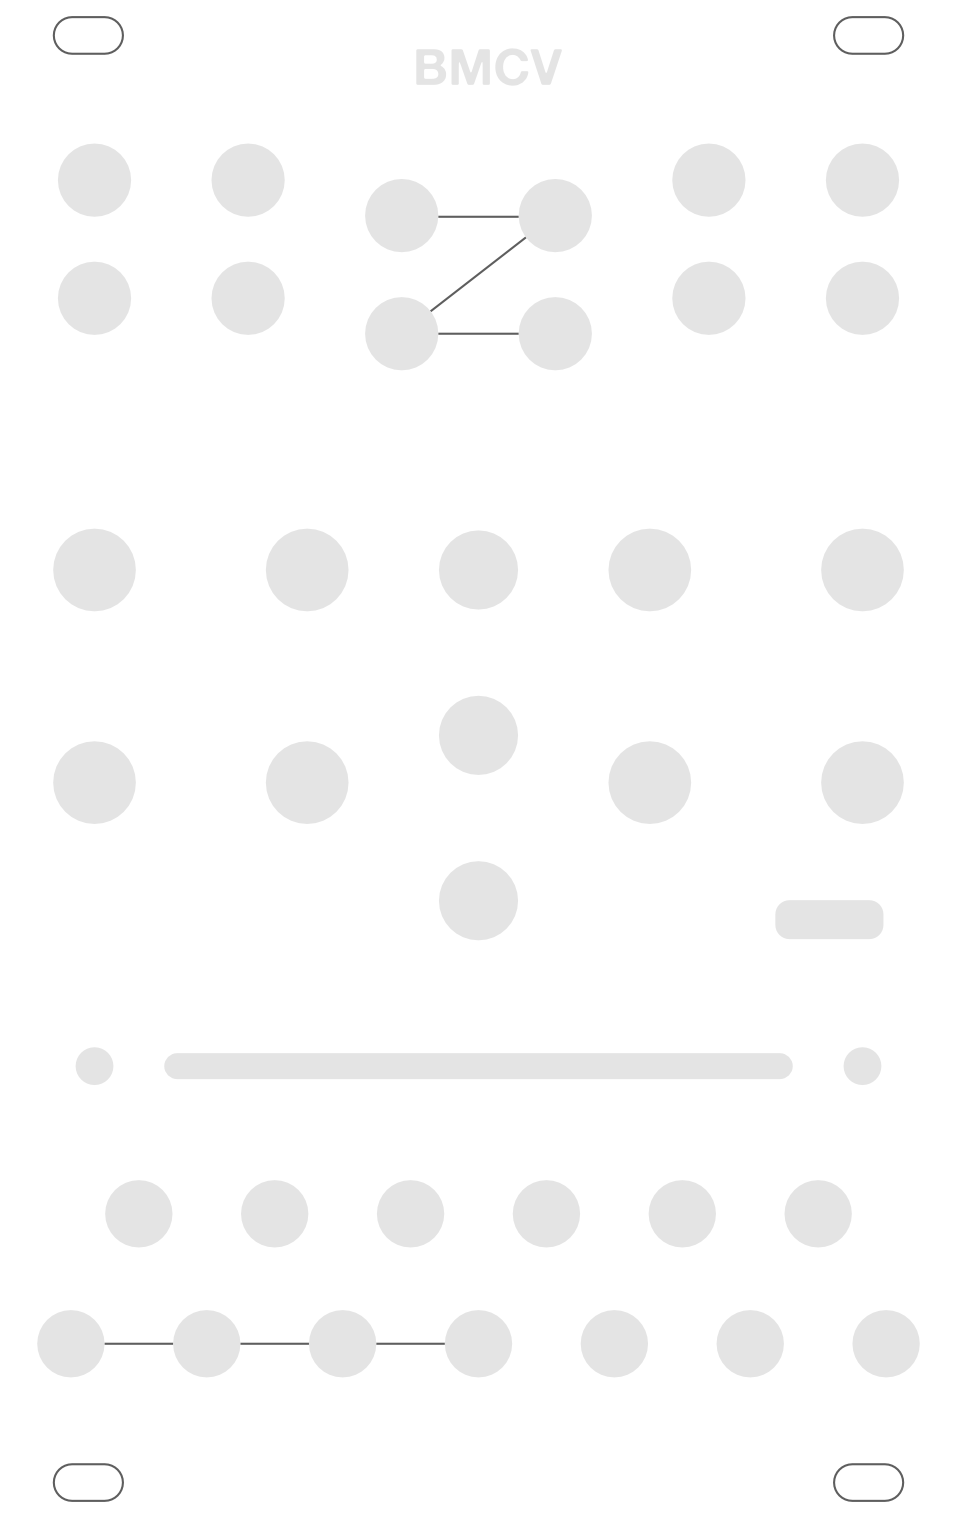
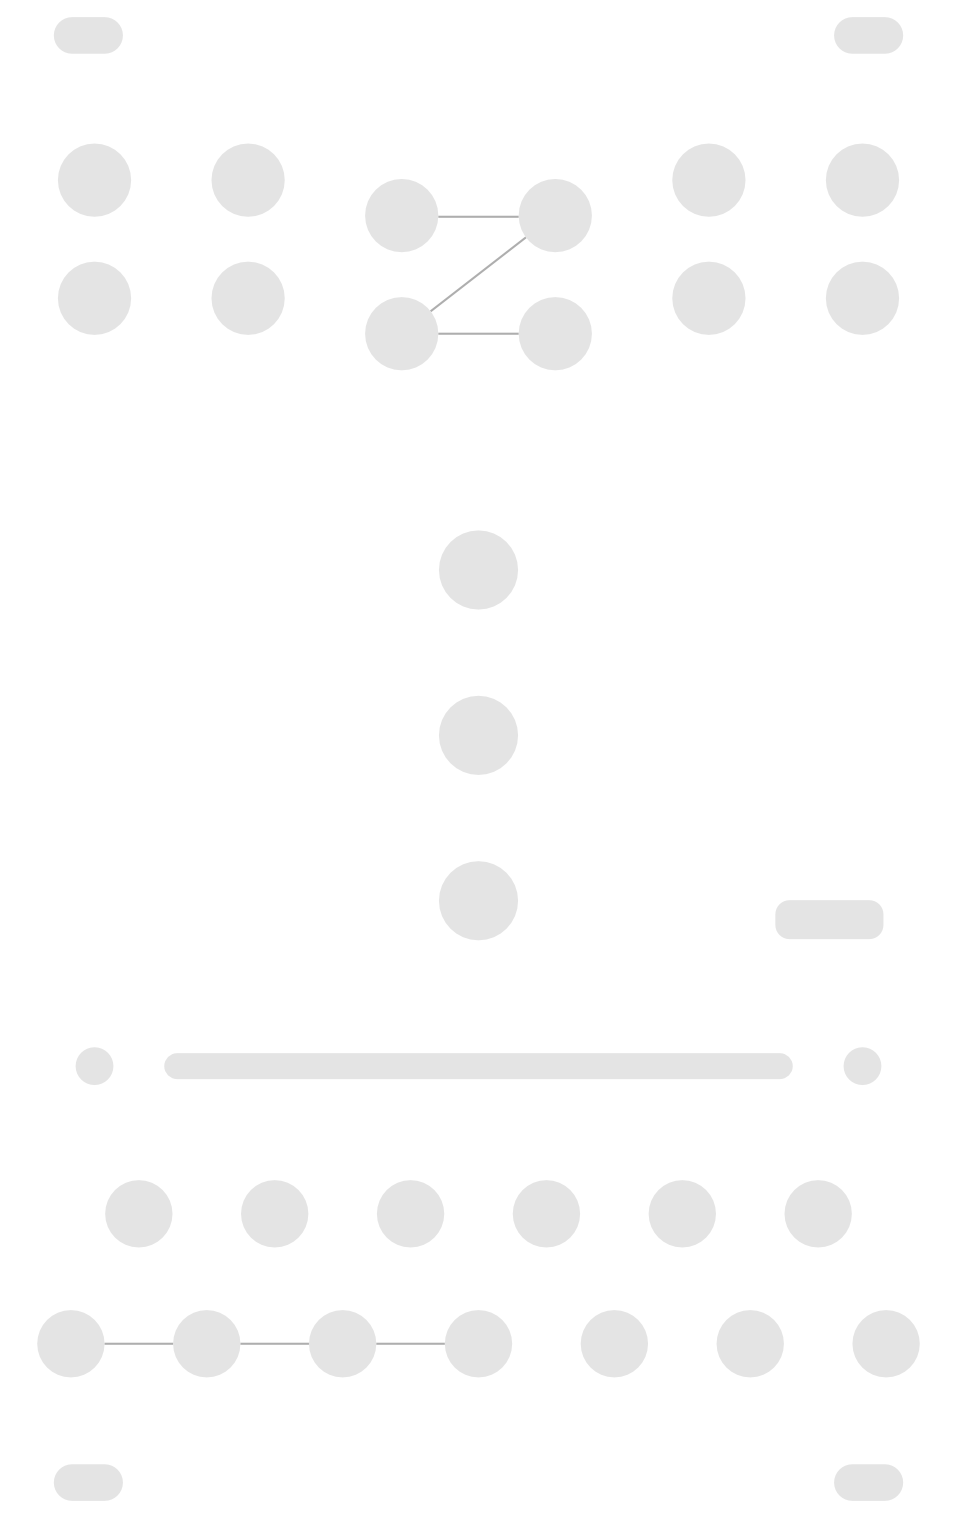
test(usb): ask the browser whether it can reach the module directly
Whether Windows bound WinUSB to the new vendor interface is awkward to establish
from Device Manager and trivial to establish from the thing that cares: if
Chrome offers the device and lets go of interface 1, it worked.

The picker is unfiltered on purpose. A module missing from a list of everything
says the descriptors did not take; a module missing from a filtered list says
almost nothing, since a filter that does not match is indistinguishable from a
device that is not there.

It prints what it found either way - the USB version the device reports, every
interface with its class and endpoints, and which are already claimed - so a
failure says which kind it is. A device that will not open has no WinUSB behind
it; one that opens and refuses interface 1 has something else holding it.

diff --git a/web/midi-bench/bench.js b/web/midi-bench/bench.js
@@ -38,6 +38,70 @@ const kb = n => `${fmt(n / 1024, 1)} kB/s`;
 // host driver and this device gives it nothing to work with.
 const findPorts = access => identify(access, stage => setStatus(stage));
 
+/* ---- can a browser reach the module directly? ---------------------------- */
+
+// The one question that decides whether the WebUSB route is available at all.
+//
+// On Windows a vendor interface is only reachable if the OS bound WinUSB to it,
+// which the module's Microsoft OS 2.0 descriptors ask for. Whether that worked
+// is awkward to establish from Device Manager and trivial to establish here: if
+// Chrome offers the device and lets go of interface 1, it worked. If it does
+// not appear in the picker at all, the descriptors did not take.
+const BMCV_VID = 1155;
+const BMCV_PID = 22315;
+const BMCV_VENDOR_INTERFACE = 1;
+
+async function checkWebUsb() {
+  if (!navigator.usb) {
+    log('This browser has no WebUSB.');
+    return;
+  }
+
+  let device;
+  try {
+    // No filter, so the picker shows everything - a module that is missing from
+    // an unfiltered list says something quite different from one missing from a
+    // filtered one.
+    device = await navigator.usb.requestDevice({ filters: [] });
+  } catch (e) {
+    log(`No device chosen (${e.name}).`);
+    log('If BMCV was not in the list, Windows has not bound WinUSB to its vendor');
+    log('interface, and the descriptors are what need looking at.');
+    return;
+  }
+
+  log(`chosen: ${device.manufacturerName || '?'} ${device.productName || '?'}`);
+  log(`  vendorId 0x${device.vendorId.toString(16)} productId 0x${device.productId.toString(16)}`);
+  log(`  USB ${device.usbVersionMajor}.${device.usbVersionMinor}`);
+
+  const expected = device.vendorId === BMCV_VID && device.productId === BMCV_PID;
+  if (!expected) log('  (that is not the BMCV this page expects)');
+
+  try {
+    await device.open();
+    log('  opened');
+    if (!device.configuration) await device.selectConfiguration(1);
+
+    for (const iface of device.configuration.interfaces) {
+      const alt = iface.alternate;
+      const eps = alt.endpoints.map(e => `${e.direction}${e.endpointNumber} ${e.type} ${e.packetSize}B`).join(', ');
+      log(`  interface ${iface.interfaceNumber}: class ${alt.interfaceClass} [${eps || 'no endpoints'}]`
+        + `${iface.claimed ? ' (claimed)' : ''}`);
+    }
+
+    // The decisive step. A system driver holding the interface refuses here.
+    await device.claimInterface(BMCV_VENDOR_INTERFACE);
+    log(`  claimed interface ${BMCV_VENDOR_INTERFACE} - WinUSB is bound and WebUSB works.`);
+    await device.releaseInterface(BMCV_VENDOR_INTERFACE);
+    await device.close();
+  } catch (e) {
+    log(`  FAILED: ${e.name}: ${e.message}`);
+    log('  A device that opens but will not give up interface 1 is one Windows has');
+    log('  bound something else to. One that will not open at all has no WinUSB.');
+    try { await device.close(); } catch { /* already gone */ }
+  }
+}
+
 /* ---- what is actually on the bus ----------------------------------------- */
 
 // No theory, just bytes.
@@ -253,6 +317,23 @@ async function withModule(fn) {
   log(`firmware ${version}`);
   return fn(input, output);
 }
+
+el('run-webusb')?.addEventListener('click', async () => {
+  const button = el('run-webusb');
+  button.disabled = true;
+  ui.verdict.hidden = true;
+  ui.log.textContent = '';
+  setStatus('pick the BMCV in the browser\'s device list');
+
+  try {
+    await checkWebUsb();
+    setStatus('done - copy the log');
+  } catch (e) {
+    setStatus(`${e.name}: ${e.message}`);
+  } finally {
+    button.disabled = false;
+  }
+});
 
 el('run-diagnose')?.addEventListener('click', async () => {
   const button = el('run-diagnose');

diff --git a/web/midi-bench/index.html b/web/midi-bench/index.html
@@ -31,6 +31,13 @@
 </p>
 
 <p class="lede">
+  <strong>Check WebUSB</strong> asks whether this browser can reach the module
+  directly, without going through MIDI at all. Pick the BMCV from the list it
+  offers. If it can claim the module's vendor interface, Windows bound WinUSB to
+  it and the WebUSB route is available.
+</p>
+
+<p class="lede">
   <strong>Diagnose the bus</strong> asks nothing and assumes nothing: it opens
   every port, reports its state, sends one identity request to each output, and
   prints every byte that comes back. Use it when a module that is plainly there
@@ -45,6 +52,7 @@
 <p>
   <button id="run-snapshots" type="button">measure the snapshot rate</button>
   <button id="run-diagnose" type="button">diagnose the bus</button>
+  <button id="run-webusb" type="button">check WebUSB</button>
   <span id="status" class="muted">starting up</span>
 </p>
 
